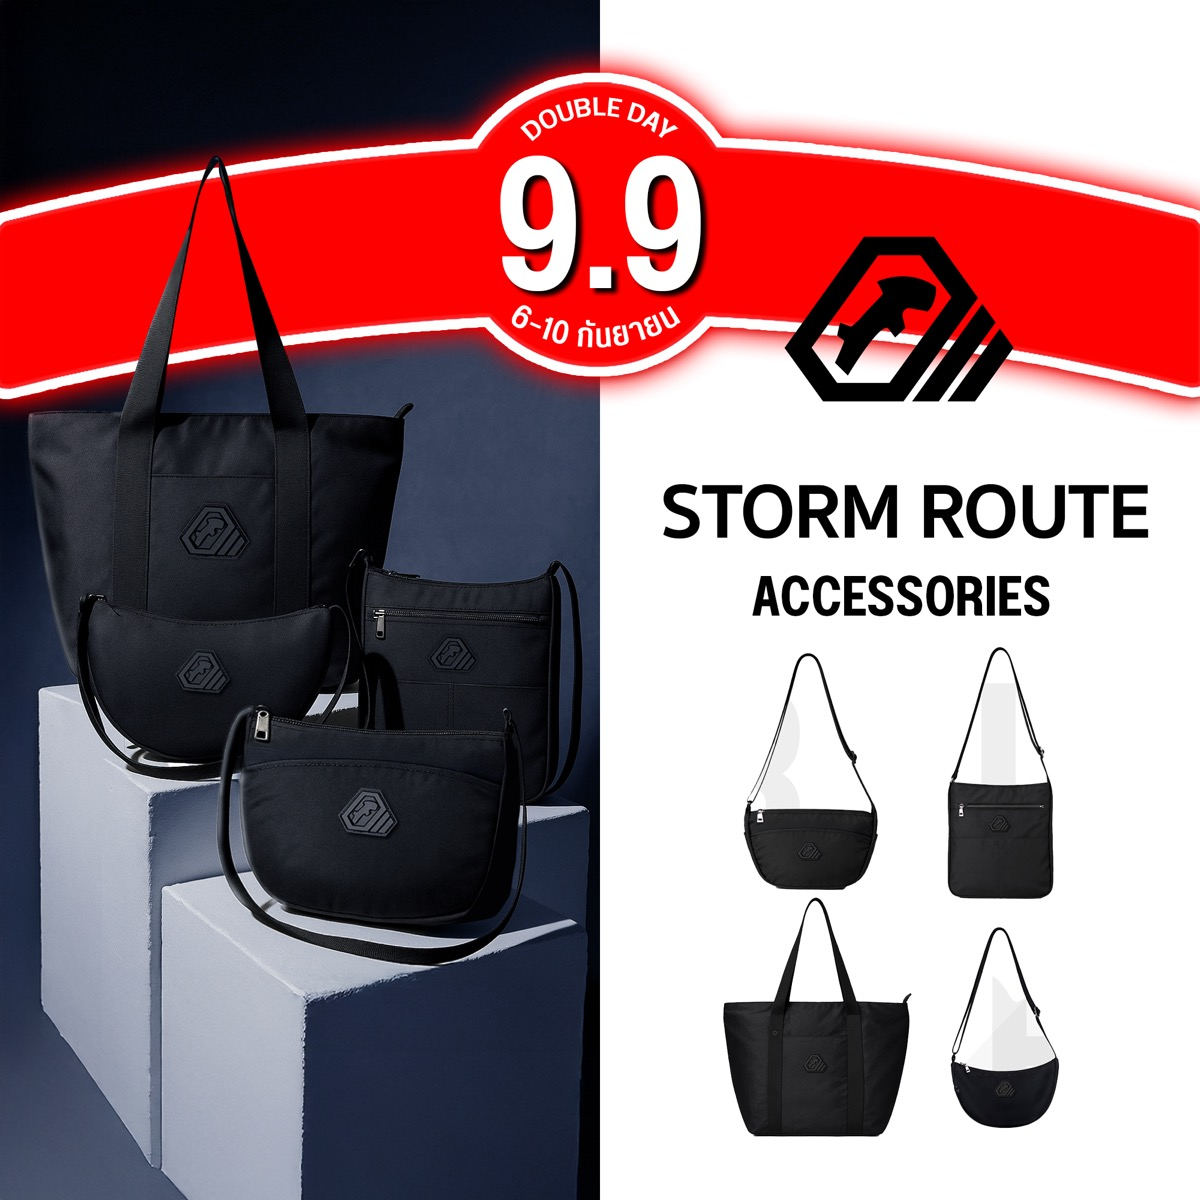
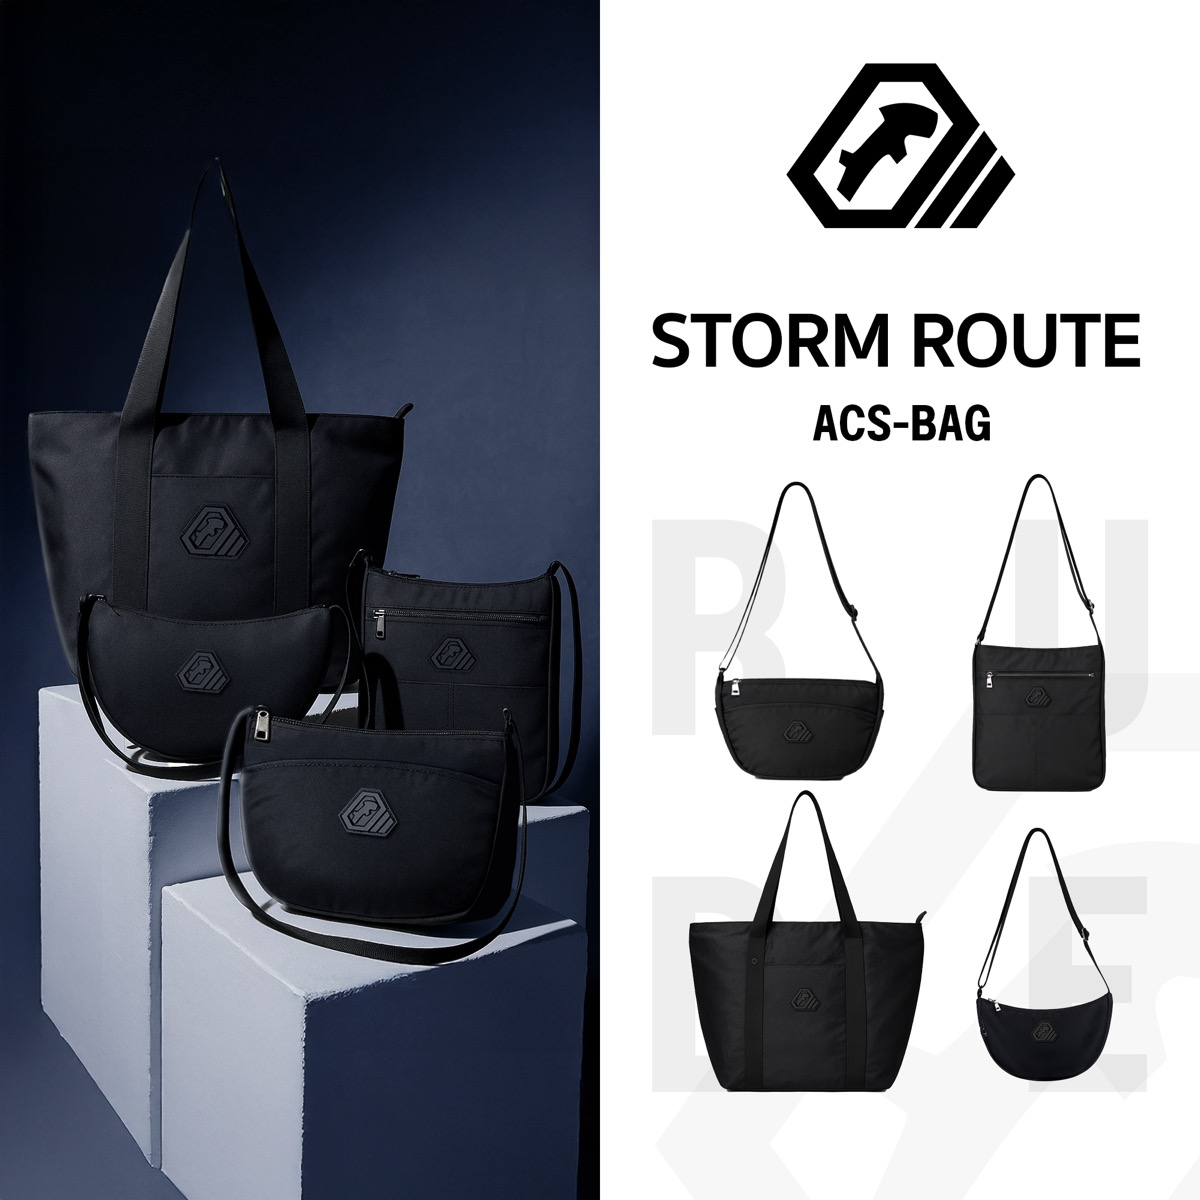
Update storm image and mascot copy

Changed region(s): [[0.0, 0.0308, 1.0, 0.37], [0.555, 0.4008, 0.9558, 0.9558]]

diff --git a/index.html b/index.html
@@ -320,7 +320,7 @@
         <p class="eyebrow">05 - The Mascot</p>
         <h2>BULL TERRIER.</h2>
         <blockquote>The only dog born to wear RUDEDOG.</blockquote>
-        <p>หัวรูปไข่ ตาสามเหลี่ยม หูตั้ง กล้ามแน่นแต่ posture สุภาพ Bull Terrier คือภาพแทนของนอกกรอบอย่างมีคลาสโดยกำเนิด</p>
+        <p>หัวทรงไอคอนิก ตาคมสามเหลี่ยม หูตั้ง กล้ามแน่นแต่ posture สุภาพ Bull Terrier คือภาพแทนของนอกกรอบอย่างมีคลาสโดยกำเนิด</p>
       </div>
       <div class="mascot-card reveal">
         <img src="assets/images/brand-mascot-dog-v2.jpg" alt="Bull Terrier สีขาวผูกโบว์ไทบนพื้นหลังเส้นน้ำเงิน สัญลักษณ์ CLASSY CRAZY ของ RUDEDOG">